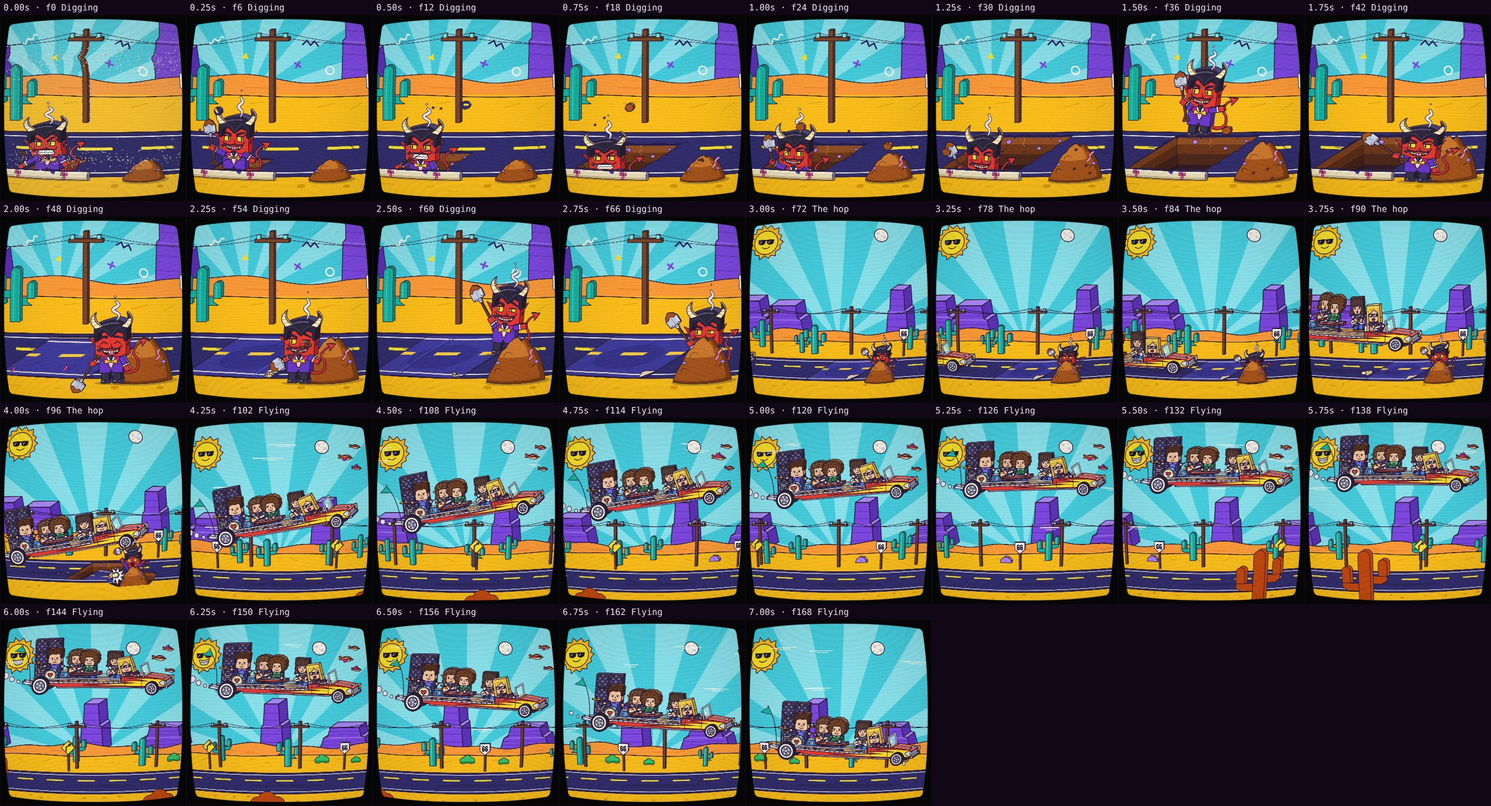
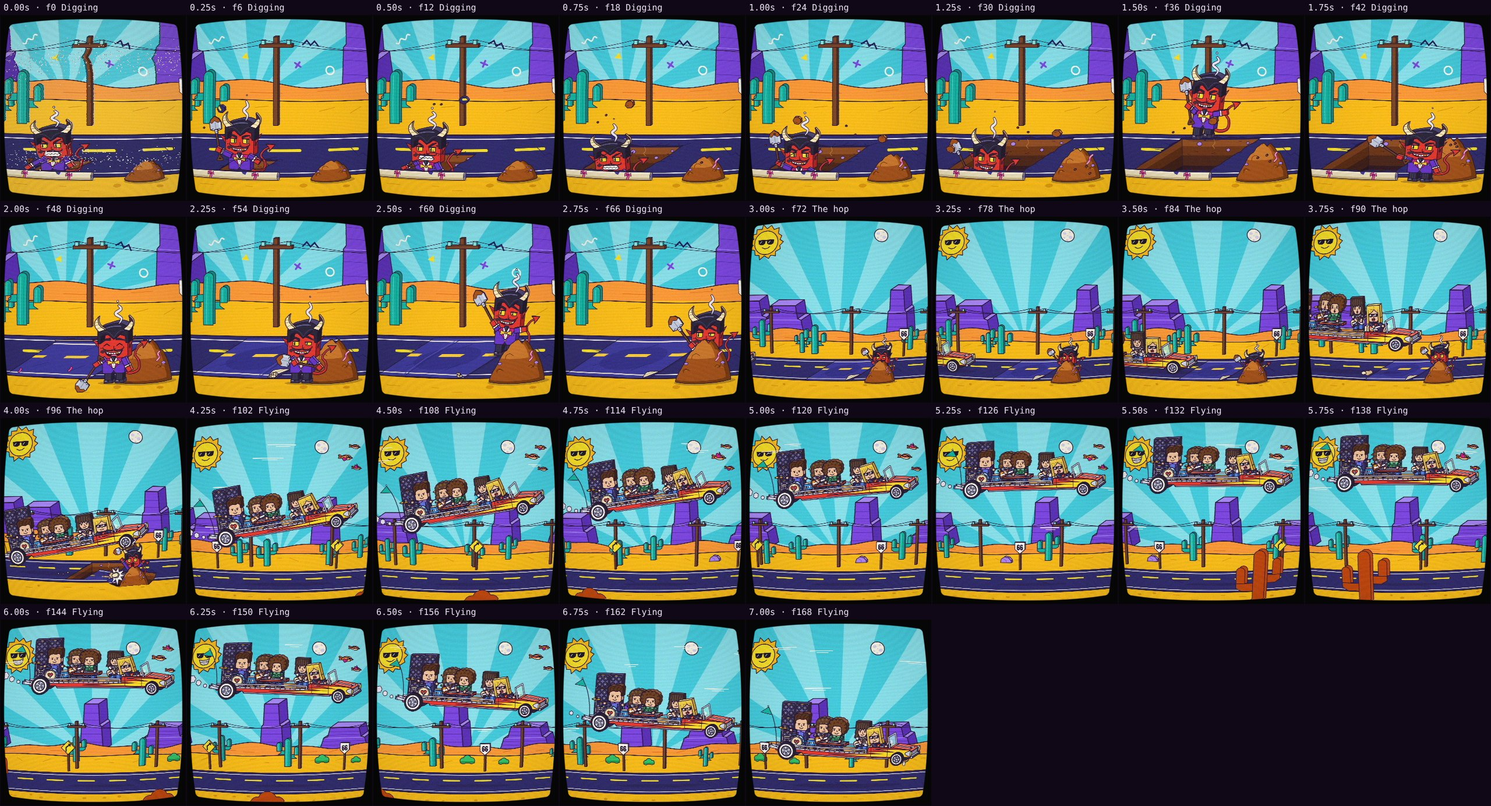
wip(runnin-down-a-dream): verse1a finished by its agent; the road's foreground layer can skip a cell
Claude-Session: https://claude.ai/code/session_01UB8Eocu6YQhvkYFYMosPEV

Changed region(s): [[0.0, 0.0311, 1.0, 0.2486], [0.0, 0.2796, 0.5, 0.4971]]

diff --git a/sandbox/2026-11-11-runnin-down-a-dream/world.js b/sandbox/2026-11-11-runnin-down-a-dream/world.js
@@ -317,9 +317,11 @@ const World = (() => {
     }
 
     // What passes in front of the cars: now and then something near, big and fast.
-    function front(g, t, X, theme) {
+    // o.skip(i): return true for a cell whose object would cross the action (i is the cell's number).
+    function front(g, t, X, theme, o = {}) {
         const W = THEMES[theme];
         cells(X, 1.6, 1900, 400, 'near', (i, x, r) => {
+            if (o.skip && o.skip(i)) return;
             const k = r();
             if (k < 0.45) cactus(g, { ...W, cactus: W.near, cactusTop: W.near, cactusSide: W.near }, x, 1040, 330, 1);
             else if (k < 0.75) bush(g, { ...W, bush: W.near, bushD: W.near }, x, 1030, 130);

diff --git a/sandbox/2026-11-11-runnin-down-a-dream/segments/verse1a.js b/sandbox/2026-11-11-runnin-down-a-dream/segments/verse1a.js
@@ -77,7 +77,7 @@
             note(g, t, b(j), j, false);
             note(g, t, S.snap(S.beat(j - 0.5)), j + 1, true);
         }
-        World.front(g, t, X, 'day');
+        World.front(g, t, X, 'day', { skip: (i) => i === 4 || i === 5 }); // those two near cacti would cross the hearse's entrance and the cut
     }
 
     // =========================================================================================

diff --git a/sandbox/2026-11-11-runnin-down-a-dream/dev/verse1c/review/auto.md b/sandbox/2026-11-11-runnin-down-a-dream/dev/verse1c/review/auto.md
@@ -19,7 +19,7 @@ No still stretches of 1 s or more.
 
 ## Speed
 
-Painting: 131 ms/frame cold, 103 ms warm → full render ≈ 18 s at this size.
+Painting: 169 ms/frame cold, 135 ms warm → full render ≈ 23 s at this size.
 
 ## Contact sheet
 
